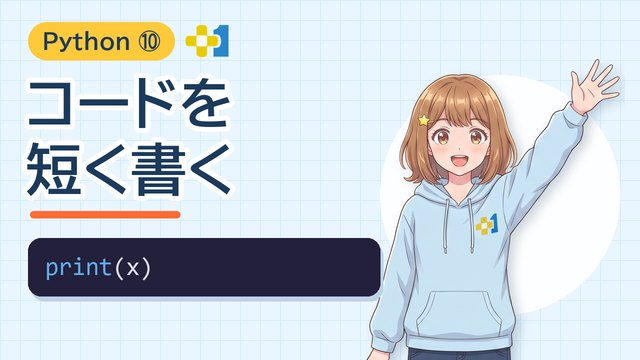
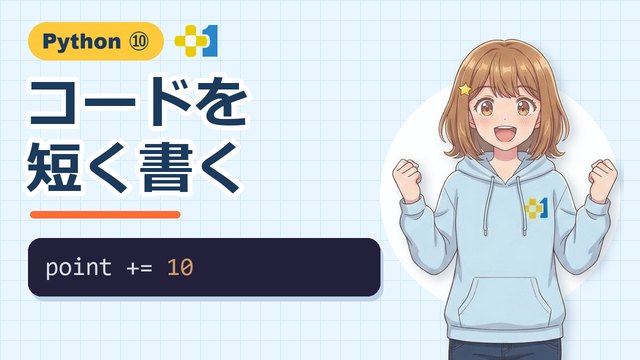
Python ナビ：ステップ10「コードを短く書く」の新しい動画を登録・仕上げ5問を新しく (#49)
- steps.json：見出し4つ（長い書き方・+= で短く・ほかの計算も・文字にも使える）＋チャレンジ3つ。動画 HXfYgOznE1E（限定公開）。箱の名前は point（依頼主）
- 仕上げ5問：FRESH[10]（+= の意味・じゅんばんに計算・エラーを直そう・+= でうしろにつなぐ・/= で分ける）

diff --git a/src/data/navi/finishSteps.ts b/src/data/navi/finishSteps.ts
@@ -74,7 +74,7 @@ export const finishStepLessons: Lesson[] = [
     "unitNumber": 31,
     "subNumber": 10,
     "title": "ステップ10の仕上げ",
-    "description": "+= などで、コードを短く書こう",
+    "description": "+=・-=・*=・/= で、箱の中身を短い書き方でかえよう",
     "difficulty": "かんたん"
   },
   {
@@ -1767,78 +1767,78 @@ export const finishStepMissions: Record<string, Mission[]> = {
     {
       "id": 1,
       "type": "quiz",
-      "title": "+= で足す",
+      "title": "+= の意味",
       "description": "このコードを実行すると、何が出る？",
-      "codeToRead": "x = 20\nx += 5\nprint(x)",
+      "codeToRead": "point = 5\npoint += 3\nprint(point)",
       "choices": [
-        "205",
-        "25",
-        "5"
+        "3",
+        "8",
+        "53"
       ],
       "correctAnswer": 1,
-      "expectedOutput": "25",
-      "hint": "x += 5 は x = x + 5 と同じだよ。",
-      "explanation": "20 に 5 を足して、x は 25 になるよ。",
+      "expectedOutput": "8",
+      "hint": "point の中身の 5 に、3 をたすと…？",
+      "explanation": "point += 3 は point = point + 3 と同じ。5 + 3 で 8 だよ。",
       "availableBlocks": []
     },
     {
       "id": 2,
       "type": "quiz",
-      "title": "文字にも *=",
+      "title": "じゅんばんに計算",
       "description": "このコードを実行すると、何が出る？",
-      "codeToRead": "hello = \"やあ\"\nhello *= 3\nprint(hello)",
+      "codeToRead": "okane = 100\nokane -= 40\nokane *= 2\nprint(okane)",
       "choices": [
-        "やあやあやあ",
-        "やあ3",
-        "やあ やあ やあ"
+        "120",
+        "60",
+        "160"
       ],
       "correctAnswer": 0,
-      "expectedOutput": "やあやあやあ",
-      "hint": "hello *= 3 は hello = hello * 3 と同じ。",
-      "explanation": "文字に * 3 をすると3回くりかえす。スペースは入らないよ。",
+      "expectedOutput": "120",
+      "hint": "上から じゅんばんに。100 から 40 をひいて、そのあと 2ばい。",
+      "explanation": "100 − 40 = 60、60 × 2 = 120。上の行から じゅんばんに計算するよ。",
       "availableBlocks": []
     },
     {
       "id": 3,
       "type": "quiz",
-      "title": "まちがいを直そう",
-      "description": "15 を出したいのに、5 が出た。どう直す？",
-      "codeToRead": "x = 10\nx =+ 5\nprint(x)",
+      "title": "エラーを直そう",
+      "description": "「NameError: name 'point' is not defined」と出た。どう直す？",
+      "codeToRead": "point += 10\nprint(point)",
       "choices": [
-        "5 を 15 にする",
-        "print(x) を2回書く",
-        "=+ を += にする"
+        "point += 10 を point = 10 + にする",
+        "print(point) を print(\"point\") にする",
+        "1行目の前に point = 0 を書く"
       ],
       "correctAnswer": 2,
-      "expectedOutput": "=+ を += にする",
-      "hint": "記号の順番をよく見てみよう。",
-      "explanation": "=+ だと「x に +5 を入れる」になって 5 が出る。足すときは += の順番だよ。",
+      "expectedOutput": "1行目の前に point = 0 を書く",
+      "hint": "たす前に、point の箱はあるかな？",
+      "explanation": "+= は「今の中身」にたすので、先に point = 0 のように箱を作っておこう。",
       "availableBlocks": []
     },
     {
       "id": 4,
-      "title": "-= でひく",
-      "description": "-= を使って、x から 50 をひいて表示しよう！",
-      "expectedOutput": "100",
-      "correctCode": "x -= 50\nprint(x)",
+      "title": "+= で うしろにつなぐ",
+      "description": "namae には「はると」が入っているよ。+= で「くん」をつけて、「はるとくん」と表示しよう！",
+      "expectedOutput": "はるとくん",
+      "correctCode": "namae += \"くん\"\nprint(namae)",
       "availableBlocks": [
         {
           "id": "b0",
-          "text": "x",
+          "text": "namae",
           "type": "variable",
           "color": "bg-sky-200"
         },
         {
           "id": "b1",
-          "text": "-=",
+          "text": "+=",
           "type": "operator",
           "color": "bg-orange-200"
         },
         {
           "id": "b2",
-          "text": "50",
-          "type": "number",
-          "color": "bg-yellow-100"
+          "text": "\"くん\"",
+          "type": "string",
+          "color": "bg-green-200"
         },
         {
           "id": "nl3",
@@ -1866,37 +1866,37 @@ export const finishStepMissions: Record<string, Mission[]> = {
         },
         {
           "id": "b7",
-          "text": "+=",
+          "text": "-=",
           "type": "operator",
           "color": "bg-orange-200"
         }
       ],
-      "prefixCode": "x = 150",
+      "prefixCode": "namae = \"はると\"",
       "rules": [
         {
-          "requires": [
+          "forbids": [
             "-="
           ],
-          "message": "-= を使って、短く書こう！"
+          "message": "文字をうしろにつなぐのは += だよ！"
         }
       ]
     },
     {
       "id": 5,
-      "title": "*= でかける",
-      "description": "x に 3 を入れて、*= で 4 倍にして表示しよう！",
-      "expectedOutput": "12",
-      "correctCode": "x = 3\nx *= 4\nprint(x)",
+      "title": "/= で分ける",
+      "description": "ame には 12 が入っているよ。/= で 3人に分けて、「4.0」と表示しよう！",
+      "expectedOutput": "4.0",
+      "correctCode": "ame /= 3\nprint(ame)",
       "availableBlocks": [
         {
           "id": "b0",
-          "text": "x",
+          "text": "ame",
           "type": "variable",
           "color": "bg-sky-200"
         },
         {
           "id": "b1",
-          "text": "=",
+          "text": "/=",
           "type": "operator",
           "color": "bg-orange-200"
         },
@@ -1914,53 +1914,36 @@ export const finishStepMissions: Record<string, Mission[]> = {
         },
         {
           "id": "b4",
-          "text": "*=",
-          "type": "operator",
-          "color": "bg-orange-200"
-        },
-        {
-          "id": "b5",
-          "text": "4",
-          "type": "number",
-          "color": "bg-yellow-100"
-        },
-        {
-          "id": "b6",
           "text": "print",
           "type": "function",
           "color": "bg-yellow-200"
         },
         {
-          "id": "b7",
+          "id": "b5",
           "text": "(",
           "type": "bracket",
           "color": "bg-gray-200"
         },
         {
-          "id": "b8",
+          "id": "b6",
           "text": ")",
           "type": "bracket",
           "color": "bg-gray-200"
         },
         {
-          "id": "b9",
-          "text": "×",
+          "id": "b7",
+          "text": "*=",
           "type": "operator",
           "color": "bg-orange-200"
         }
       ],
+      "prefixCode": "ame = 12",
       "rules": [
         {
           "forbids": [
-            "×"
-          ],
-          "message": "かけ算は × ではなく、* で書くよ！"
-        },
-        {
-          "requires": [
             "*="
           ],
-          "message": "*= を使って、短く書こう！"
+          "message": "分けるのは わり算の /= だよ！"
         }
       ]
     }
@@ -5968,7 +5951,7 @@ export const finishStepTutorials: LessonTutorial[] = [
         "content": "さっきの動画で習ったことを、5問でたしかめます。結果を予想する問題・まちがいを直す問題・ブロックをならべる問題があります。",
         "characterMessage": "わからなくなったら、ヒントを見てね。",
         "codeExample": {
-          "good": "y = 1\ny += 1\nprint(y)  # 2"
+          "good": "point += 5  # point = point + 5 と同じ"
         }
       }
     ]

diff --git a/scripts/build-navi-finish.py b/scripts/build-navi-finish.py
@@ -597,6 +597,23 @@ FRESH = {
           rules=[("forbids", ['"toshi"'], "\" \" でかこむと、箱の中身ではなく文字のまま出るよ！"),
                  ("req", ["str("], "数と文字を + でつなぐときは、str( ) で文字にしよう！")]),
     ]),
+    10: dict(desc="+=・-=・*=・/= で、箱の中身を短い書き方でかえよう", example="point += 5  # point = point + 5 と同じ", qs=[
+        Q("+= の意味", "point = 5\npoint += 3\nprint(point)", "8", ["3", "53"],
+          "point の中身の 5 に、3 をたすと…？", "point += 3 は point = point + 3 と同じ。5 + 3 で 8 だよ。"),
+        Q("じゅんばんに計算", "okane = 100\nokane -= 40\nokane *= 2\nprint(okane)", "120", ["60", "160"],
+          "上から じゅんばんに。100 から 40 をひいて、そのあと 2ばい。", "100 − 40 = 60、60 × 2 = 120。上の行から じゅんばんに計算するよ。"),
+        Q("エラーを直そう", "point += 10\nprint(point)", "1行目の前に point = 0 を書く",
+          ["point += 10 を point = 10 + にする", 'print(point) を print("point") にする'],
+          "たす前に、point の箱はあるかな？",
+          "+= は「今の中身」にたすので、先に point = 0 のように箱を作っておこう。",
+          desc="「NameError: name 'point' is not defined」と出た。どう直す？", run=False),
+        B("+= で うしろにつなぐ", "namae には「はると」が入っているよ。+= で「くん」をつけて、「はるとくん」と表示しよう！",
+          'namae += "くん"\nprint(namae)', "はるとくん", extra=["-="], prefix='namae = "はると"',
+          rules=[("forbids", ["-="], "文字をうしろにつなぐのは += だよ！")]),
+        B("/= で分ける", "ame には 12 が入っているよ。/= で 3人に分けて、「4.0」と表示しよう！",
+          "ame /= 3\nprint(ame)", "4.0", extra=["*="], prefix="ame = 12",
+          rules=[("forbids", ["*="], "分けるのは わり算の /= だよ！")]),
+    ]),
 }
 
 NEW_STEP = {2: 5, 3: 8, 4: 9, 5: 10, 6: 11, 7: 14, 8: 16, 9: 18, 10: 23, 11: 25, 12: 28, 13: 33, 14: 35, 15: 37,
